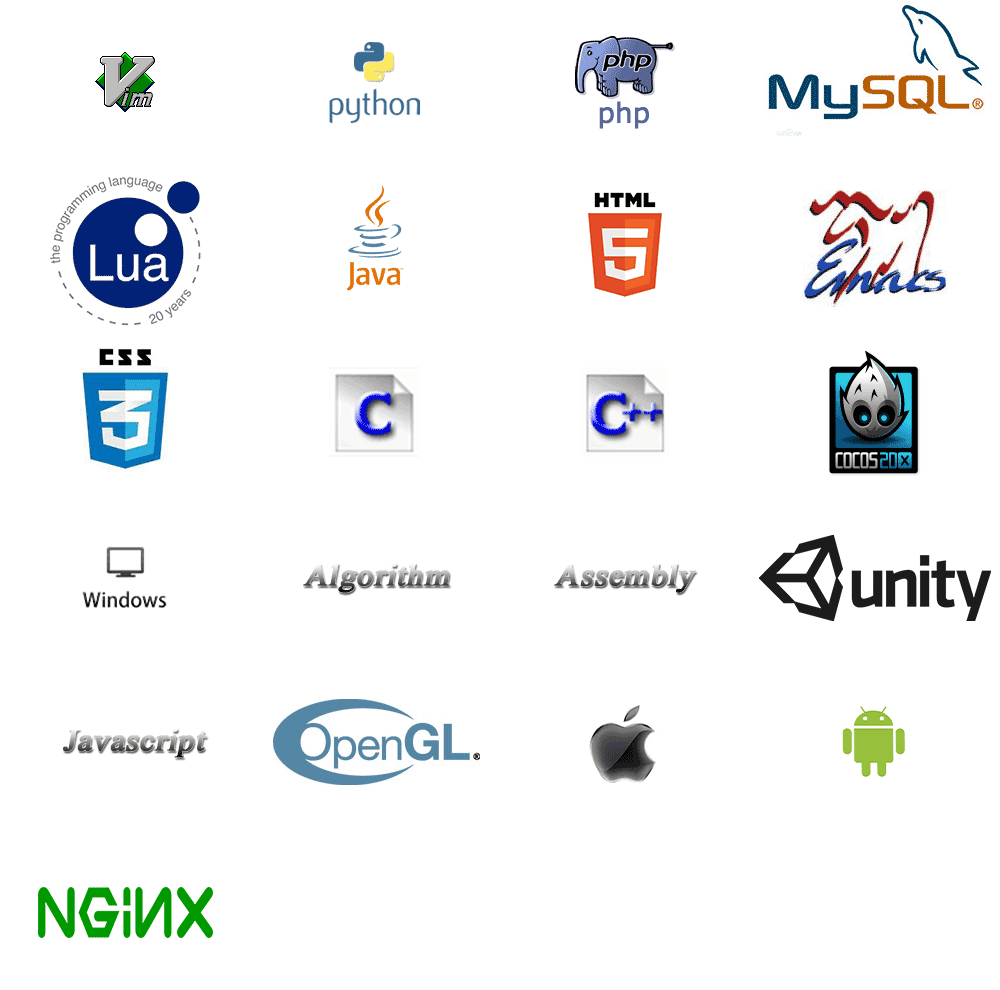
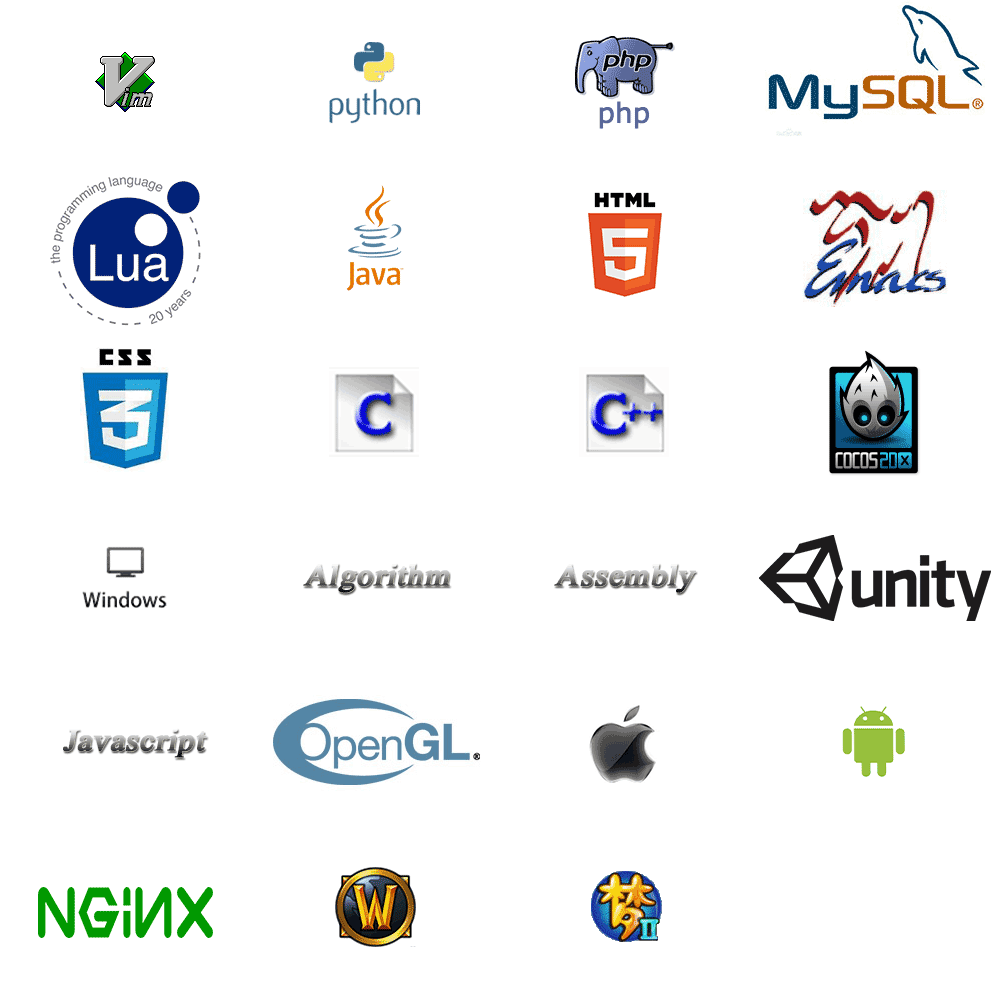
game category add

Changed region(s): [[0.31, 0.8788, 0.434, 0.9697], [0.589, 0.8788, 0.682, 0.9697]]

diff --git a/Public/css/common.css b/Public/css/common.css
@@ -1210,6 +1210,8 @@ background-position:-750px -330px;
 .c_nginx{
 	background-position:0px -825px;
 }
+.c_wow{background-position:-250px -825px;}
+.c_xyq{background-position:-500px -825px;}
 
 /* form  css*/
 .formTLeft{ text-align:left;}
